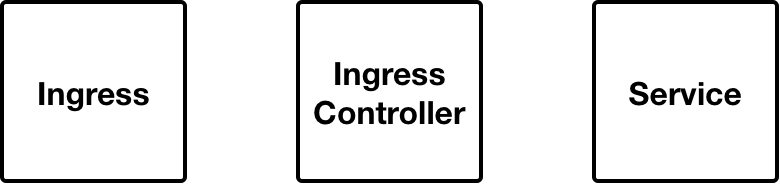
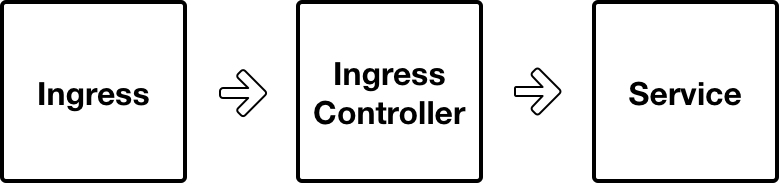
further work on Kubernetes Architecture content and started GitBook configuration.

Changed region(s): [[0.6462, 0.3533, 0.7385, 0.625], [0.2769, 0.5163, 0.3385, 0.6522], [0.2769, 0.3804, 0.3385, 0.4891]]

diff --git a/02-hello-kubernetes-with-minikube/02-02.md b/02-hello-kubernetes-with-minikube/02-02.md
@@ -25,21 +25,31 @@ Before describing _Kubernetes Resources_ there is some important conceptual info
 
 ### Labels and Selectors
 
+Labels is one of the fundamental _Kubernetes_ concepts.  A label is a key / value pair that is attached to a _Kubernetes Resource_.  And each _Kubernetes Resource_ can have many labels.  Labels serve as a means to identify a particular _Resource_ or set of _Resources_.  
+
+Selectors are also key / value pairs.  They are used to select _Resources_ that have a particular label or set of labels.  By this mechanism it is possible for one _Resource_ type to select one or more _Resources_ of another type.  Labels can also be used with `kubectl` to query just particular _Resources_.  
+
+The following diagram depicts this selection mechanism with a _Service_ selecting a set of _Pods_. 
+
 <img src="images/labels-and-selectors.png" width="324px" />
+
+More information about labels and selectors can be found [here](https://kubernetes.io/docs/concepts/overview/working-with-objects/labels/).
 
 
 ## Kubernetes Resources
 
 _Resources_ are high level abstractions that contain the declarative state for an infrastructure component.  _Resources_ are published into the _Kubernetes_ API server and it is the responsibility of _Kubernetes_ controllers to bring the cluster into agreement with the declared state.  
 
-There are many different types of _Resources_ available.  The full list of _Resources_ can be found in the [API documentation](https://kubernetes.io/docs/reference/generated/kubernetes-api/v1.10/).  The following sections describe just a few of the most important _Resources_.
+There are many different types of _Resource_ available.  The full list of _Resources_ can be found in the [API documentation](https://kubernetes.io/docs/reference/generated/kubernetes-api/v1.10/).  The following sections describe just a few of the most important _Resources_.
 
 **Note**
 
-This is really just a high level introduction.  More detailed information about some of these _Resource_ types will be provided as the course unfolds.
+This is really just a high level introduction.  More detailed information about some of these _Resources_ will be provided as the course unfolds.
 
 
-### Pods
+### Workloads
+
+#### Pods
 
 As described previously, a [_Pod_](https://kubernetes.io/docs/concepts/workloads/pods/pod-overview/) is the fundamental unit of execution in _Kubernetes_.  A _Pod_ has one or more containers.  The following diagram depicts a _Pod_ and the three types of containers that it can have.
 
@@ -47,86 +57,166 @@ As described previously, a [_Pod_](https://kubernetes.io/docs/concepts/workloads
 
 | Container Type    | Description                   |
 |:------------------|:------------------------------|
-| **Application** | This is the core container for the application.  You need one of these and it is the comman case that a _Pod_ only contains this application container. |
-| **Sidecar** | A _Pod_ can also have other containers that perform useful work in support of the application container.  A container that ships application logs is a good example. There can be any number of these within a _Pod_. |
-| **Init** | Sometimes it is necessary to do some initialisation before starting the application container.  For instance, to create a database.  There can be any number of these with a _Pod_ and they are run one at a time in sequential order.  See [here](https://kubernetes.io/docs/concepts/workloads/pods/init-containers/) for more information. |
+| **Application** | This is the core container for an application.  You must have one of these with the most common pattern being that a _Pod_ only has the application container. |
+| **Sidecar** | A _Pod_ can also have other containers that perform some useful work in support of the application container.  A container that ships application logs is a good example. There can be any number of these within a _Pod_. |
+| **Init** | Sometimes it is necessary to do some initialisation before starting the application container.  For instance, to create a database.  There can be any number of these _Init_ containers within a _Pod_ and they are run one at a time in sequential order.  See [here](https://kubernetes.io/docs/concepts/workloads/pods/init-containers/) for more information. |
 
-As with other _Resource_ types, a _Pod_ can have labels.  And these labels are used by other _Resources_ (see next section) to enable management of _Pods_.
+As with other _Resource_ types, a _Pod_ can have labels.  And these labels are used by other _Resources_ (see next section) to enable management of the _Pods_.
 
 <img src="images/pod-with-labels.png" width="229px" />
 
-### Deployments
+#### Deployments
+
+A _Deployment_ allows you to manage the lifecycle of _Pods_ and an associated _Resource_ called a _ReplicaSet_.  
+
+A _Deployment_ contains a specification for a _Pod_ and also additional information, such as the number of _Pods_ to run.  
+
+The _ReplicaSet_ is created when a _Deployment_ is created or updated and it is actually the _ReplicaSet_ that is used as the definition for creating the _Pods_.  
+
+Each time the _Deployment_ is updated a new _ReplicaSet_ is created.  This makes it possible to roll back a _Deployment_ by using the previous _ReplicaSet_.
+
+The following diagram depicts this.
 
 <img src="images/deployment.png" width="517px" />
 
+More informations about _Deployments_ can be found [here](https://kubernetes.io/docs/concepts/workloads/controllers/deployment/).
 
-### DaemonSet
+
+#### DaemonSet
+
+A _Daemonset_ ensures that a _Pod_ is run on all, or a subset, of the available _Kubernetes Nodes_.  
+
+A use case for this might be where you want to have a metric collector run on all the _Nodes_ so that kernel performance statistics can be gathered.
+
+The following diagram depicts this.
 
 <img src="images/daemonset.png" width="329px" />
 
+More information about _DaemonSets_ can be found [here](https://kubernetes.io/docs/concepts/workloads/controllers/daemonset/).
 
-### StatefulSet
+
+#### StatefulSet
+
+A _StatefulSet_ manages sets of _Pods_ in a way that provides a guaranteed _Pod_ name and a specific storage volume for each.  The order in which the _Pods_ are created and destroyed is also guaranteed.  
+
+A use case for this is where a distributed database cluster relies upon its members having a specific name with associated data and that the cluster must be created with an initial bootstrap member.  _ElasticSearch_ is a good example of this.
+
+The following diagram depicts this.
 
 <img src="images/statefulset.png" width="277px" />
 
+More information about _StatefulSets_ can be found [here](https://kubernetes.io/docs/concepts/workloads/controllers/statefulset/).
 
-### Job
+
+#### Job
+
+A _Job_ creates one of more _Pods_ and ensures that at least a certain amount of them run to completion.  
+
+A use case for this is a batch data load.
+
+The following diagram depicts this.
 
 <img src="images/job.png" width="160px" />
 
+More information about _Jobs_ can be found [here](https://kubernetes.io/docs/concepts/workloads/controllers/jobs-run-to-completion/).
 
-### CronJob
+
+#### CronJob
+
+A _CronJob_ runs _Jobs_ on a schedule.  The format for the schedule is the [Cron](https://en.wikipedia.org/wiki/Cron) format.
+
+A use case for this is a scheduled backup.
+
+The following diagram depicts this.
 
 <img src="images/cronjob.png" width="160px" />
 
+More information about _CronJobs_ can be found [here](https://kubernetes.io/docs/concepts/workloads/controllers/cron-jobs/).
 
-### Service
+
+### Discovery and Load Balancing
+
+#### Service
+
+A _Service_ is used to group together one or more _Pods_ using a selector.  The _Service_ then provides a _ClusterIP_ and a DNS name for the _Pods_.  
+The _Kube Proxy_ process uses the information contained within a _Service_ to configure appropriate `iptables` rules on each of the nodes so that clients of the _Service_ are able to be routed to an appropriate _Pod_.  
+
+There is a lot more detail to _Services_ which can be found in the link below the diagram.
 
 <img src="images/labels-and-selectors.png" width="324px" />
 
+More information about _Services_ can be found [here](https://kubernetes.io/docs/concepts/services-networking/service/).
 
-### Ingress
+
+#### Ingress
+
+An _Ingress_ is used to configure an _Ingress Controller_ so that a _Service_ can be made accessible externally of the cluster.  
+
+An _Ingress_ is a layer 7 HTTP construct and can configure both HTTP and HTTPS access.  
+
+An _Ingress Controller_ is a reverse proxy that watches for _Ingress Rosources_ in the _Kubernetes_ API server and configures itself with appropriate rules as per the _Ingress_.
+
+The following diagram depicts this.
 
 <img src="images/ingress.png" width="390px" />
 
+More information about _Ingresses_ can be found [here](https://kubernetes.io/docs/concepts/services-networking/ingress/).
 
-### ConfigMap
+
+### Config and Storage
+
+#### ConfigMap
+
+A _ConfigMap_ allows configuration files to be stored independantly of a container image.  The files stored within the _ConfigMap_ can then be mounted into a container within a _Pod_ at runtime.
+
+The following diagram depicts this.
 
 <img src="images/configmap.png" width="416px" />
 
+More information about _ConfigMaps_ can be found [here](https://kubernetes.io/docs/tasks/configure-pod-container/configure-pod-configmap/).
 
-### Secret
+
+#### Secret
+
+A _Secret_ allows secret files and values to be stored independant of a container image.  Much like a _ConfigMap_ but also with the ability to store the value of a key in an environment variable.
+
+The following diagram depicts this.
 
 <img src="images/secret.png" width="434px" />
 
+More information about _Secrets_ can be found [here](https://kubernetes.io/docs/concepts/configuration/secret/).
 
-### PersistentVolume and PersistentVolumeClaim
+
+#### PersistentVolume and PersistentVolumeClaim
+
+A _PersistentVolume_ represents some form of distributed storage.
+
+A _PersistenVolumeClaim_ allows a _PersistentVolume_ to be claimed for a _Pod_.
+
+The following diagram depicts this.
 
 <img src="images/pv-and-pvc.png" width="492px" />
+
+More information about _PersistentVolumes_ and _PersistentVolumeClaims_ can be found [here](https://kubernetes.io/docs/concepts/storage/persistent-volumes/).
 
 
 ### NameSpace
 
-This is where we put it all together.
+This is where we put it all together.  A _NameSpace_ can be thought of as like an environment.  Collections of _Resources_ can be deployed into the _NameSpace_ to form a grouping of related components.  
+
+Examples of _NameSpace_ use might be to create a DEV environment, or to share a set of services that are used by other _NameSpaces_, i.e. an _Ingress Controller_.
+
+The following diagram depicts this.
 
 <img src="images/namespace.png" width="865px" />
 
-
-
-
-
-## Scratch
-
-This is a brief coverage of the Kubernetes architecture.  Lineks for more depth can nbe found here.
-
-Distinction.  There is the architecture of the Kubernetes daemons / nodes and also the resources that drive the behaviour.  
-
-This will cover more about the former and the resources will be described in more depth in the next section - Kubernetes Manifests.
-
+More information about _NameSpaces_ can be found [here](https://kubernetes.io/docs/concepts/overview/working-with-objects/namespaces/).
 
 
 # Next
 
-Let's ....
+We've covered a large amount of detail in this section.  And it was only very high level!  
+
+Next up, we will explore the manifests that create the _Resources_.
 
 [Next](02-03.md)

diff --git a/SUMMARY.md b/SUMMARY.md
@@ -1,0 +1,13 @@
+# Summary
+
+* [Introduction](README.md)
+
+### Day One
+
+* [Overview](01-getting-started-with-kubernetes/01-01.md)
+* [Installing the Pre-requisites](01-getting-started-with-kubernetes/01-02.md)
+
+
+### Day Two
+
+* [Overview](02-hello-kubernetes-with-minikube/02-01.md)
